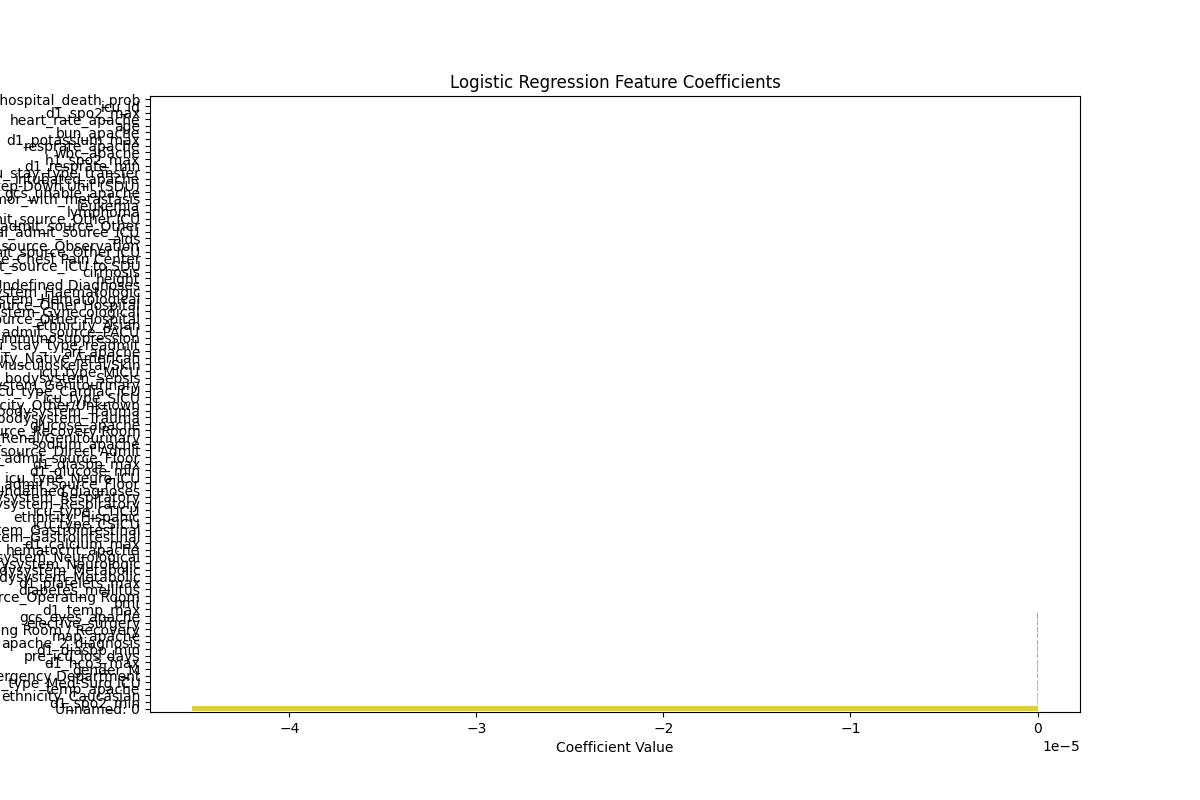
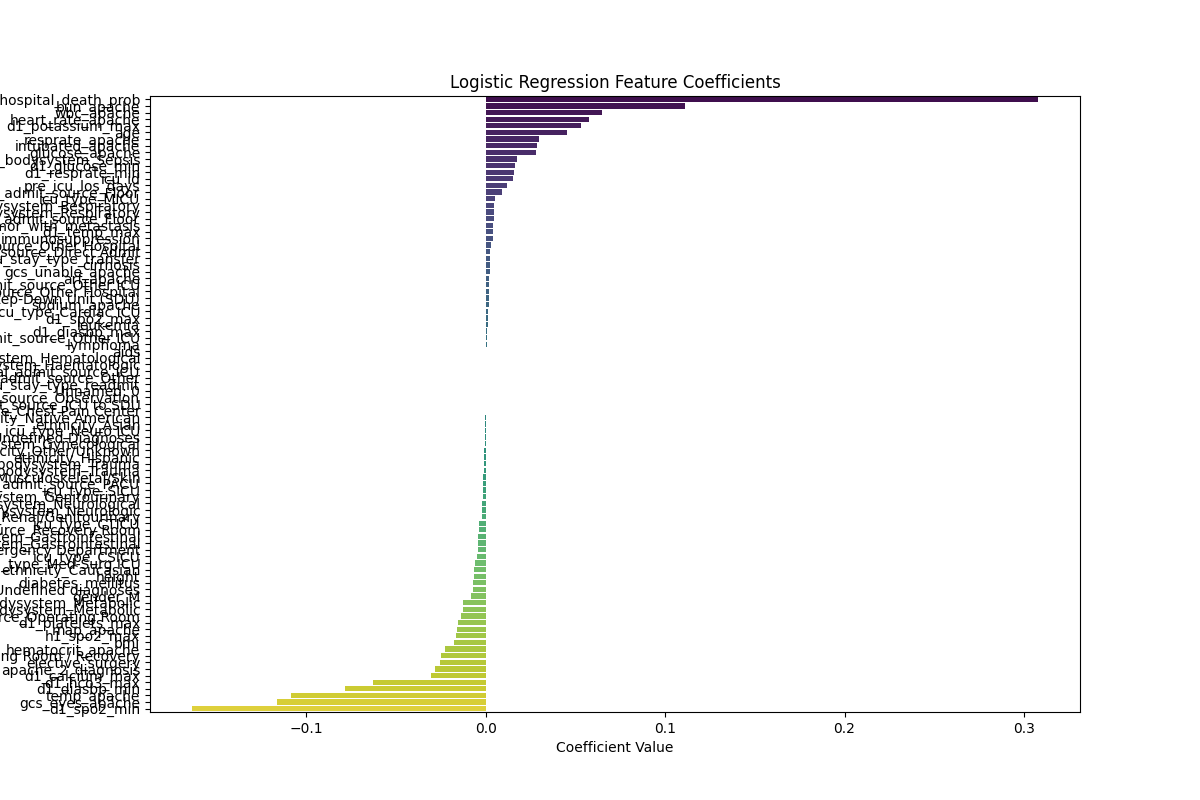
log reg modification

diff --git a/training/log_reg.py b/training/log_reg.py
@@ -32,7 +32,7 @@ X_train, X_test, y_train, y_test = train_test_split(X_final, y, test_size=0.2, r
 
 # Initialize Logistic Regression Model
 # Increase max_iter if the solver needs more iterations to converge
-model = LogisticRegression(random_state=42, max_iter=1000)
+model = LogisticRegression(random_state=42, class_weight="balanced", max_iter=1000)
 model.fit(X_train, y_train)
 
 # Predict on test set
